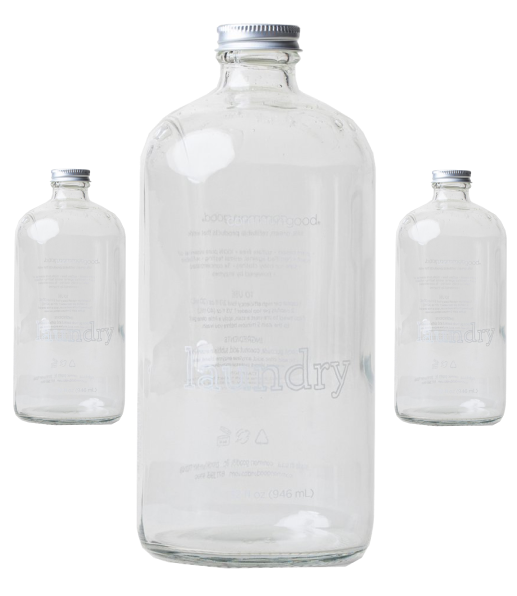
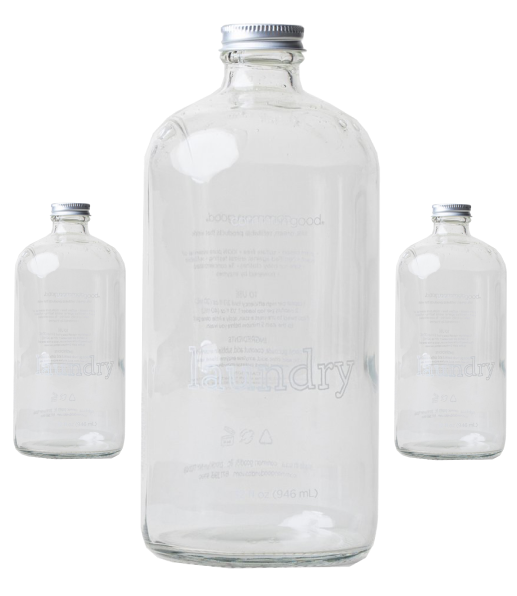
Layout Changes
Updated bottom banner layout, updated bottles banner layout

diff --git a/css/style.css b/css/style.css
@@ -1,6 +1,9 @@
 /* navigation */
 
-.navbar, .navbar, .navbar-light, .bg-light {
+.navbar,
+.navbar,
+.navbar-light,
+.bg-light {
   background-color: #0a7d94 !important;
   padding-right: 50px;
 }
@@ -14,13 +17,12 @@
   font-family: "Baloo Paaji 2" !important;
 }
 .nav-link:active {
-    color: #aeffb4 !important;
-    font-family: "Baloo Paaji 2" !important;
-  }
+  color: #aeffb4 !important;
+  font-family: "Baloo Paaji 2" !important;
+}
 .navbar-brand {
   padding-left: 10px;
 }
-
 
 /* jumbotron */
 .jumbotron {
@@ -37,15 +39,15 @@
 }
 
 /* Hero Space jumbotron */
-.jumbotron{
-    background-image: url(../images/hero.png);
-    background-size: cover;
-    background-repeat: no-repeat;
-    height: 500px;
-    height:calc(100vh - 25px);
-    display: flex;
-    align-items: center;
-    justify-content: center;
+.jumbotron {
+  background-image: url(../images/hero.png);
+  background-size: cover;
+  background-repeat: no-repeat;
+  height: 500px;
+  height: calc(100vh - 25px);
+  display: flex;
+  align-items: center;
+  justify-content: center;
 }
 
 /* Brand Header */
@@ -108,22 +110,35 @@ h3 {
 }
 
 /* how to video */
-.video{
-background-image: linear-gradient(rgb(148, 220, 238),rgb(133, 177, 235));
+.video {
+  background-image: linear-gradient(rgb(148, 220, 238), rgb(133, 177, 235));
+  margin-top: 60px;
+  margin-bottom: 60px;
 }
-.video h5{
-    display: flex;
-    justify-content: center;
-    font-family: "Baloo Paaji 2" !important;
-    font-size: 40pt;
-    color: rgb(0, 65, 85);
+
+.video-body{
+  padding-bottom:60px ;
 }
-img.videoresize{
-    max-width:60%;
-    max-height:60%;
-    display: block;
-    margin-left: auto;
-    margin-right: auto;
+
+.video h5 {
+  display: flex;
+  justify-content: center;
+  font-family: "Baloo Paaji 2" !important;
+  font-size: 40pt;
+  color: rgb(0, 65, 85);
+}
+img.videoresize {
+  max-width: 60%;
+  max-height: 60%;
+  display: block;
+  margin-left: auto;
+  margin-right: auto;
+}
+.steps {
+  padding: 20px;
+  height: 300px;
+  padding: 20px;
+  height: 300px;
 }
 
 /* Banner: the following contains the css for the banner with the plastic bottles */
@@ -131,8 +146,10 @@ img.videoresize{
   background-image: linear-gradient(to right, #cef9ce, #82cdcd, #d2ebff);
   font-family: "Baloo Paaji 2";
   color: #027492;
-  margin-top: 56px;
+  margin-top: 200px;
+  margin-bottom: 200px;
 }
+
 .banner h1 {
   padding: 56px;
 }
@@ -142,3 +159,26 @@ img.videoresize{
   padding-right: 56px;
 }
 
+.bannerContainer .col-sm {
+  display: flex;
+  align-items: center;
+}
+
+/* Bottom Banner */
+.bottomBanner {
+  background-image: url(../Images/beach.png);
+  background-size: cover;
+  background-repeat: no-repeat;
+  height: 500px;
+  height: calc(100vh - 25px);
+  display: flex;
+  align-items: center;
+  justify-content: center;
+}
+
+
+.bottomBanner h1 {
+  max-width: 500px;
+  display:flex;
+  float:left;
+}

diff --git a/index.html b/index.html
@@ -57,7 +57,6 @@
 <!--<h2>Soap Refill Station</h2>-->
 
 <!-- How it Works-->
-
 <h3>How It Works</h3>
 
 <div class="container">
@@ -74,7 +73,7 @@
   </div>
 </div>
 
-<!-- Banner with bottles-->
+
   <!-- how to video -->
   <div class="video">
     <div class="video-body">
@@ -84,8 +83,9 @@
   </div>
 <!-- End how to video -->
 
+<!-- Banner with bottles-->
 <section class="banner">
-  <div class= "container">
+  <div class= "bannerContainer">
     <div class="row">
       <div class="col-sm">
         <img src="Images/Bottles group.png"bottles"></img>
@@ -98,6 +98,19 @@
 </section>
 <!--  END Banner with bottles-->
 
+<!-- banner Jumbotron -->
+<div class="jumbotron bottomBanner">
+  <div class="jumboCopy">
+    <h1 class="display-4">Refilling your products means less yucky stuff in our beautiful oceans</h1>
+  </div>
+</div>
+<!-- End banner jumbotron -->
+
+<!-- Footer section-->
+
+
+
+<!-- END Footer section-->
 
   <script src="https://cdn.jsdelivr.net/npm/bootstrap@5.0.0-beta3/dist/js/bootstrap.bundle.min.js" integrity="sha384-JEW9xMcG8R+pH31jmWH6WWP0WintQrMb4s7ZOdauHnUtxwoG2vI5DkLtS3qm9Ekf" crossorigin="anonymous"></script>
   
